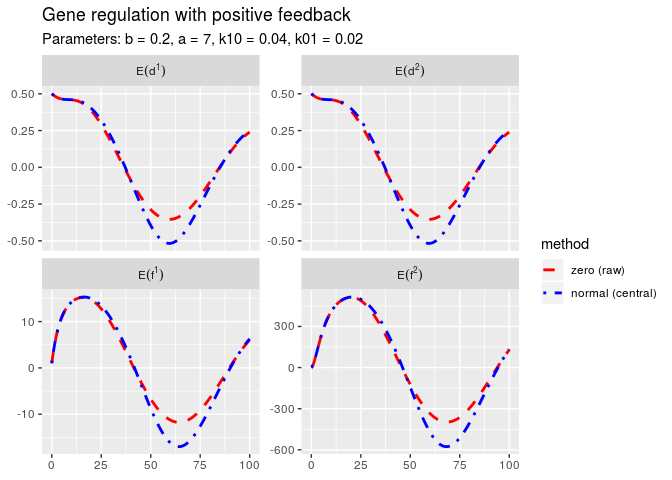
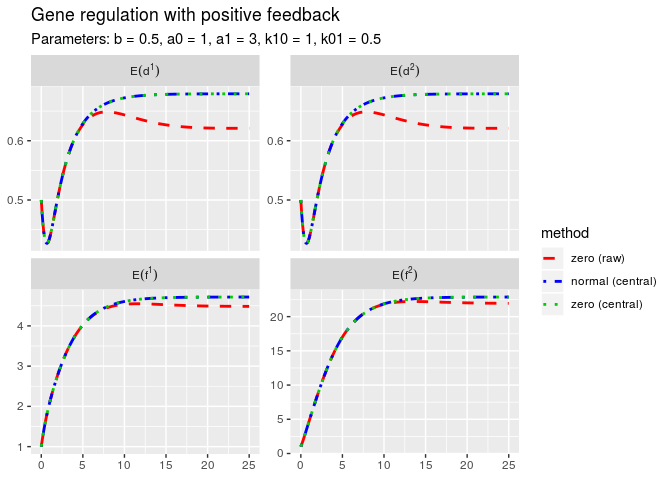
better example for README

diff --git a/README.md b/README.md
@@ -27,22 +27,23 @@ A polynomial PDMP in `pdmppoly` is represented by an object of class `polyPdmpMo
 This is a simple example modelling gene expression with positive feedback:
 
 ``` r
-genePolyF <- new("polyPdmpModel",
-     descr = "Gene regulation with positive feedback",
-     parms = list(b = 0.2, a = 7, k10 = 0.04, k01 = 0.02), 
-     init = c(f = 1, d = 1), 
-     discStates = list(d = 0:1),
-     dynpolys = quote(list(
-       list(overall = linear(c(-b,a)))
-     )),
-     ratepolys = quote(list(  
-       list(k01*lone(1,2), k10)
-     )),
-     jumpfunc = function(t, x, parms, jtype) {
-       c(x[1], 1 - x[2])
-     }, 
-     times = c(from = 0, to = 100, by = 0.1), 
-     solver = "lsodar")
+genePolyBF <- new("polyPdmpModel",
+                  descr = "Gene regulation with positive feedback",
+                  parms = list(b = 0.5, a0 = 1, a1 = 3, k10 = 1, k01 = 0.5), 
+                  init = c(f = 1, d = 1), 
+                  discStates = list(d = 0:1),
+                  dynpolys = quote(list(
+                    list(overall = -b*lone(1,2),
+                         specific = list(a0, a1))
+                  )),
+                  ratepolys = quote(list(  
+                    list(k01*lone(1,2), k10)
+                  )),
+                  jumpfunc = function(t, x, parms, jtype) {
+                    c(x[1], 1 - x[2])
+                  }, 
+                  times = c(from = 0, to = 25, by = 0.1), 
+                  solver = "lsodar")
 ```
 
 Moment calculation
@@ -56,26 +57,42 @@ Function `momApp` calculates the moments of the distribution of of a polynomial 
 -   `closure = "gamma"`: Replace with moments of a gamma distribution
 
 ``` r
-mom <- momApp(genePolyF, maxOrder = 4,
-              closure = c("zero", "normal"), 
-              centralize = c(FALSE, TRUE))
+mom <- momApp(genePolyBF, maxOrder = 8,
+              closure = c("zero", "normal", "zero"), 
+              centralize = c(FALSE, TRUE, TRUE))
 mom
 #> Model: 
 #> Description: Gene regulation with positive feedback
-#> Parameters: b = 0.2, a = 7, k10 = 0.04, k01 = 0.02
+#> Parameters: b = 0.5, a0 = 1, a1 = 3, k10 = 1, k01 = 0.5
 #> Initial Values: f = 1, d = 1
 #> 
-#> Moment approximation for moments of order > 4 leads to 
+#> Moment approximation for moments of order > 8 leads to 
 #> 
-#>             method order time         d            f
-#> 1       zero (raw)     1  100 0.2390481     6.033003
-#> 5 normal (central)     1  100 0.2489663     6.271148
-#> 2       zero (raw)     2  100 0.2390481   129.849214
-#> 6 normal (central)     2  100 0.2489663   133.903212
-#> 3       zero (raw)     3  100 0.2390481  3336.182682
-#> 7 normal (central)     3  100 0.2489663  3359.004623
-#> 4       zero (raw)     4  100 0.2390481 82816.448562
-#> 8 normal (central)     4  100 0.2489663 79945.177925
+#>              method order time         d            f
+#> 1        zero (raw)     1   25 0.6209922 4.484764e+00
+#> 9  normal (central)     1   25 0.6792388 4.716683e+00
+#> 17   zero (central)     1   25 0.6792388 4.716683e+00
+#> 2        zero (raw)     2   25 0.6209922 2.194537e+01
+#> 10 normal (central)     2   25 0.6792388 2.286486e+01
+#> 18   zero (central)     2   25 0.6792388 2.286486e+01
+#> 3        zero (raw)     3   25 0.6209922 1.076902e+02
+#> 11 normal (central)     3   25 0.6792388 1.131856e+02
+#> 19   zero (central)     3   25 0.6792388 1.131856e+02
+#> 4        zero (raw)     4   25 0.6209922 5.468273e+02
+#> 12 normal (central)     4   25 0.6792388 5.704221e+02
+#> 20   zero (central)     4   25 0.6792388 5.704221e+02
+#> 5        zero (raw)     5   25 0.6209922 2.773017e+03
+#> 13 normal (central)     5   25 0.6792388 2.916249e+03
+#> 21   zero (central)     5   25 0.6792388 2.916249e+03
+#> 6        zero (raw)     6   25 0.6209922 1.452112e+04
+#> 14 normal (central)     6   25 0.6792388 1.510106e+04
+#> 22   zero (central)     6   25 0.6792388 1.510106e+04
+#> 7        zero (raw)     7   25 0.6209922 7.470581e+04
+#> 15 normal (central)     7   25 0.6792388 7.898200e+04
+#> 23   zero (central)     7   25 0.6792388 7.898200e+04
+#> 8        zero (raw)     8   25 0.6209922 4.061504e+05
+#> 16 normal (central)     8   25 0.6792388 4.172857e+05
+#> 24   zero (central)     8   25 0.6792388 4.172857e+05
 ```
 
 ``` r
